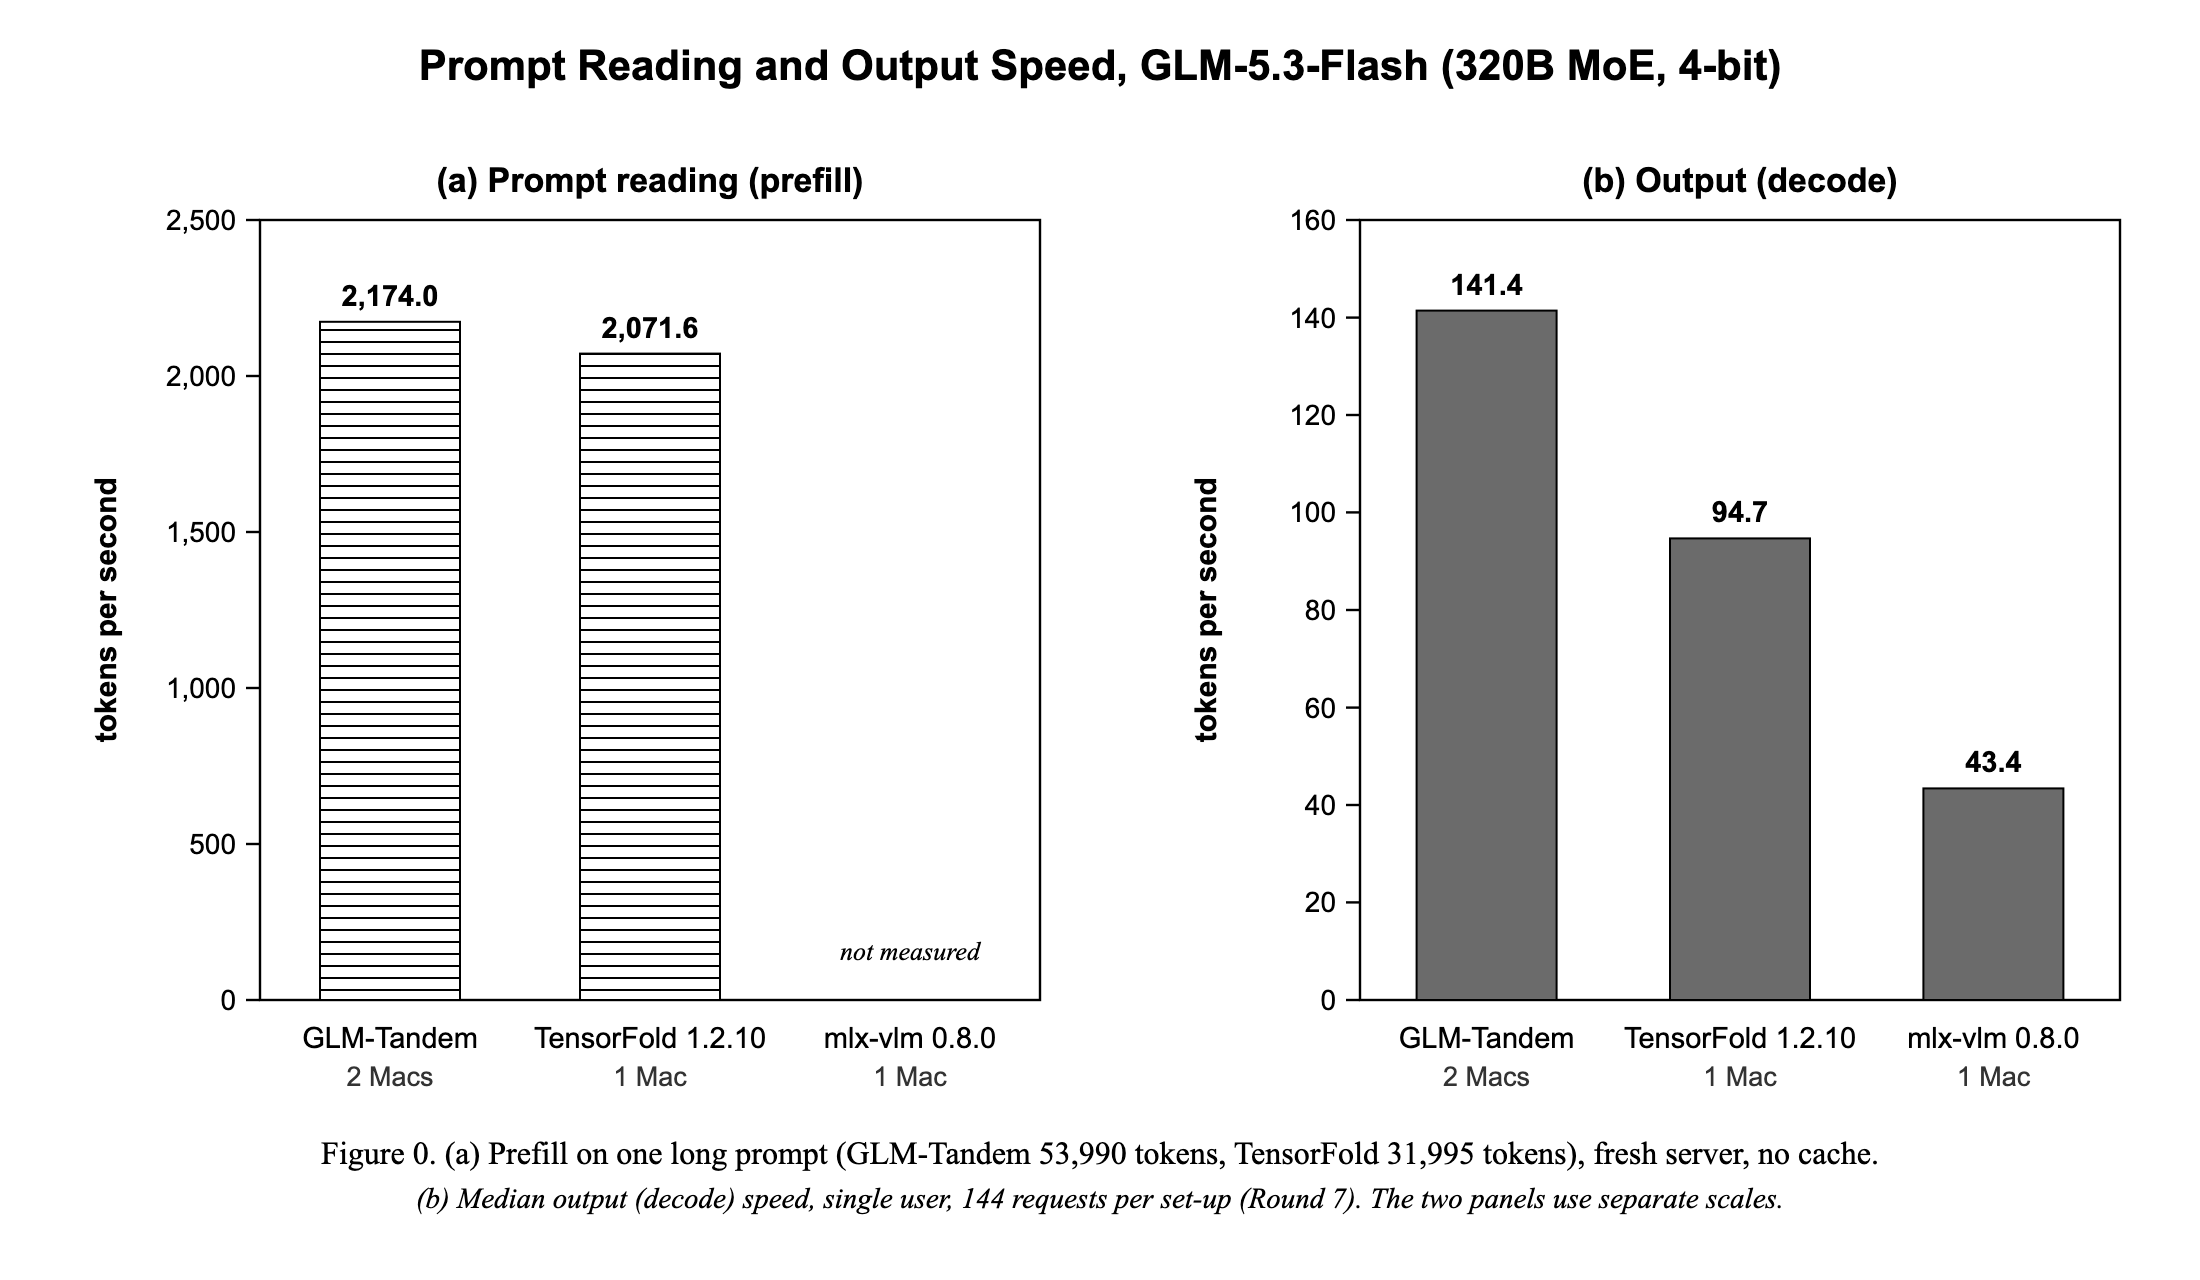
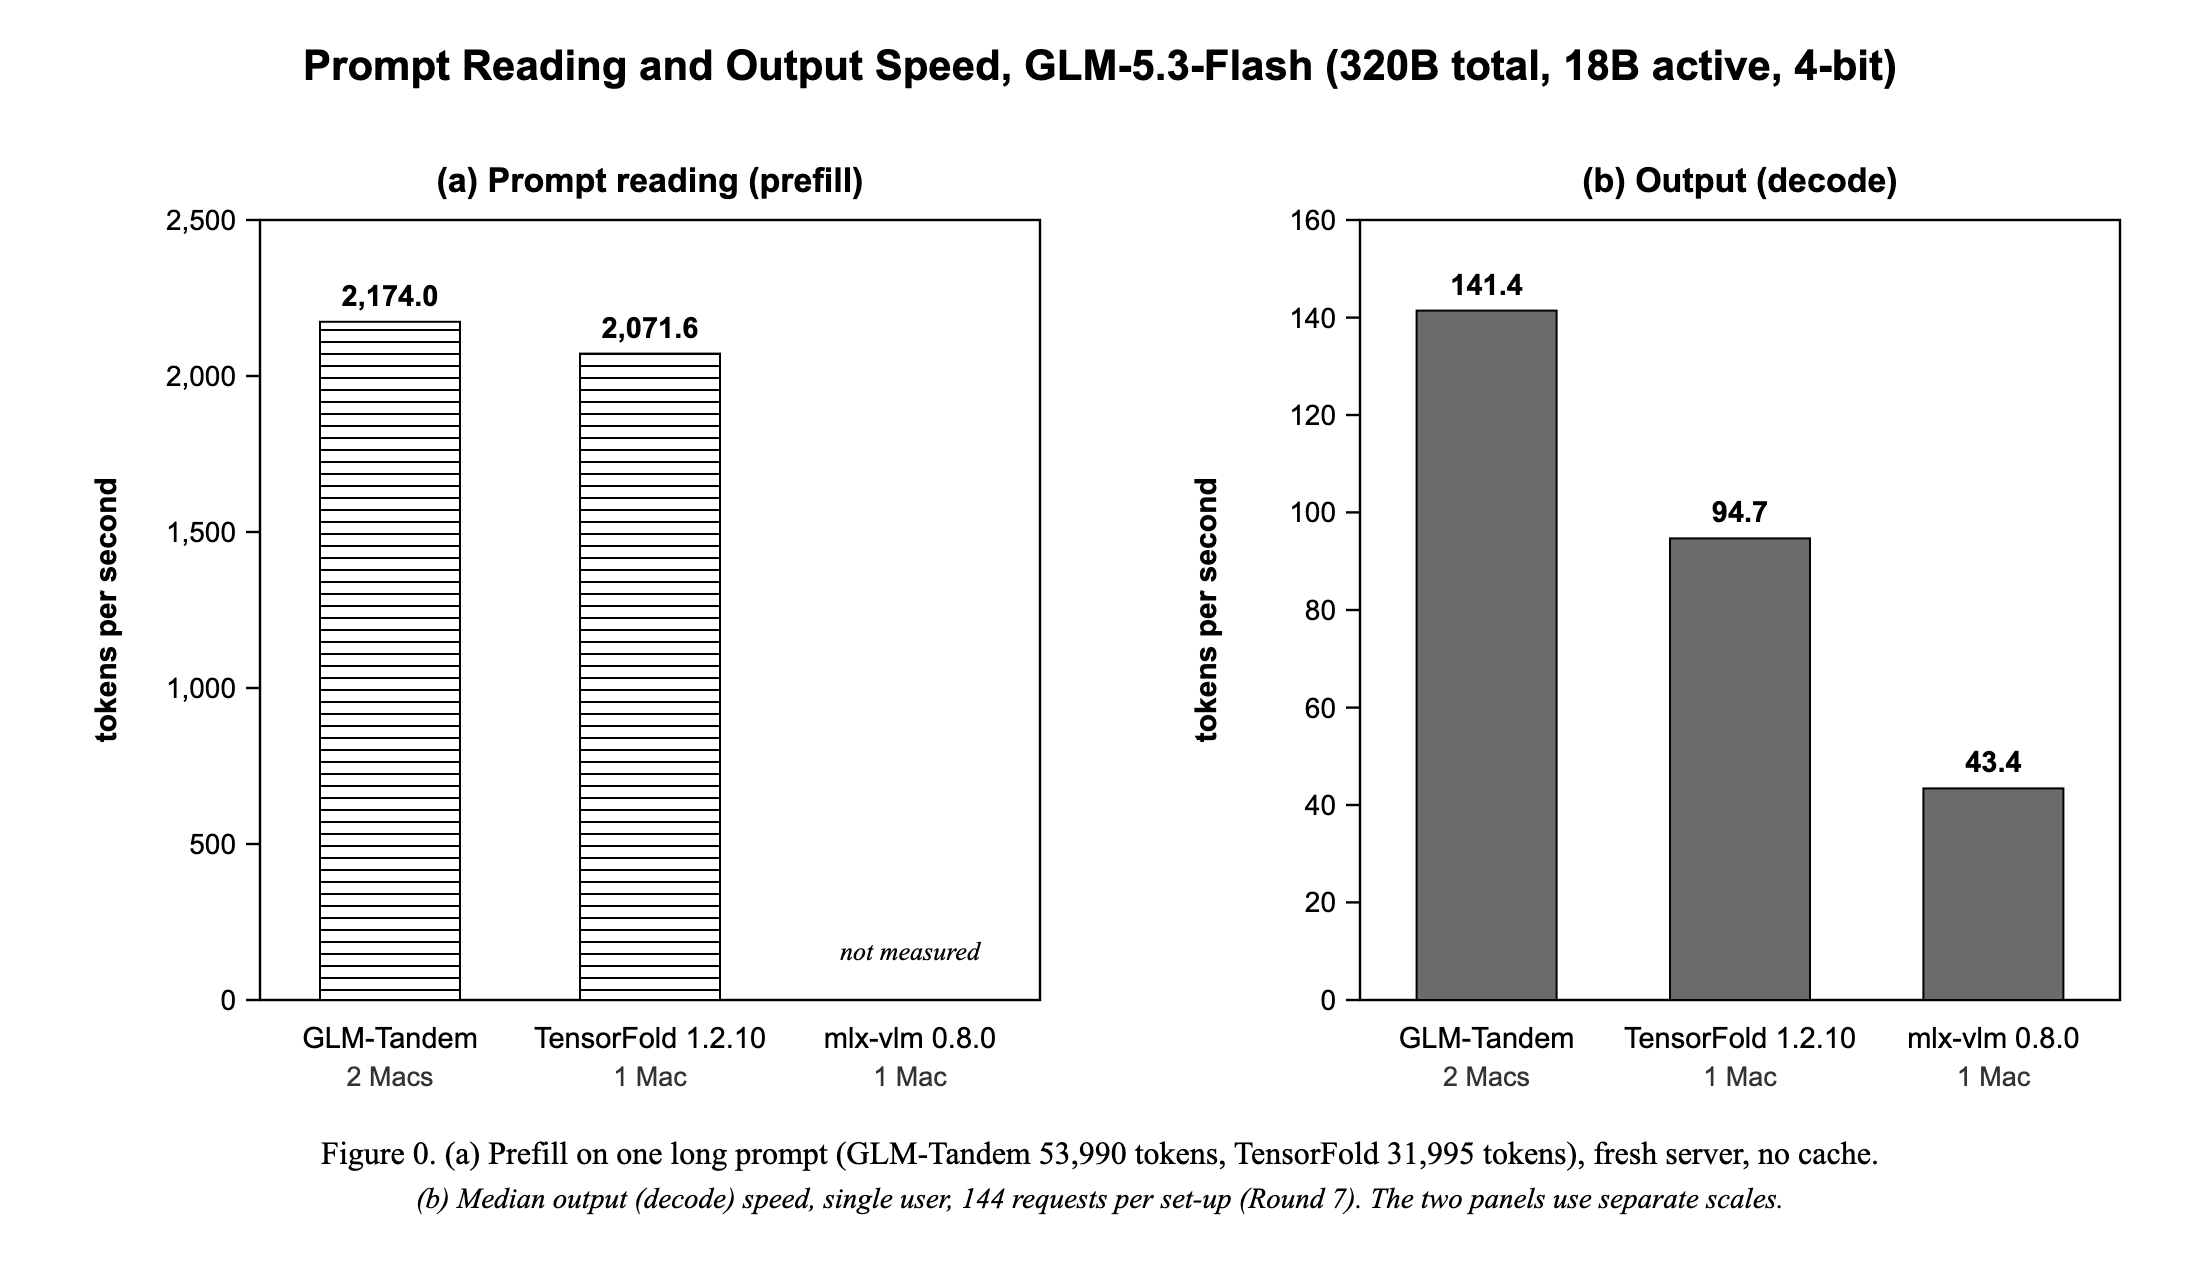
Figures: corrections from the independent fact re-check

Changed region(s): [[0.1236, 0.0312, 0.8655, 0.0625]]

diff --git a/scripts/make_charts.py b/scripts/make_charts.py
@@ -253,7 +253,7 @@ def chart_speed():
                 out.append(t(cx, sy(v) - 8, f"{v:,.1f}", 14.5, "middle", 700))
             out.append(t(cx, bottom + 24, r["engine"], 14.5, "middle"))
             out.append(t(cx, bottom + 43, r["setup"], 13.5, "middle", fill="#333"))
-    return page("Prompt Reading and Output Speed, GLM-5.3-Flash (320B MoE, 4-bit)",
+    return page("Prompt Reading and Output Speed, GLM-5.3-Flash (320B total, 18B active, 4-bit)",
                 ["Figure 0. (a) Prefill on one long prompt (GLM-Tandem 53,990 tokens, TensorFold 31,995 tokens), fresh server, no cache.",
                  "(b) Median output (decode) speed, single user, 144 requests per set-up (Round 7). The two panels use separate scales."],
                 "".join(out), d["title"], h=640)
